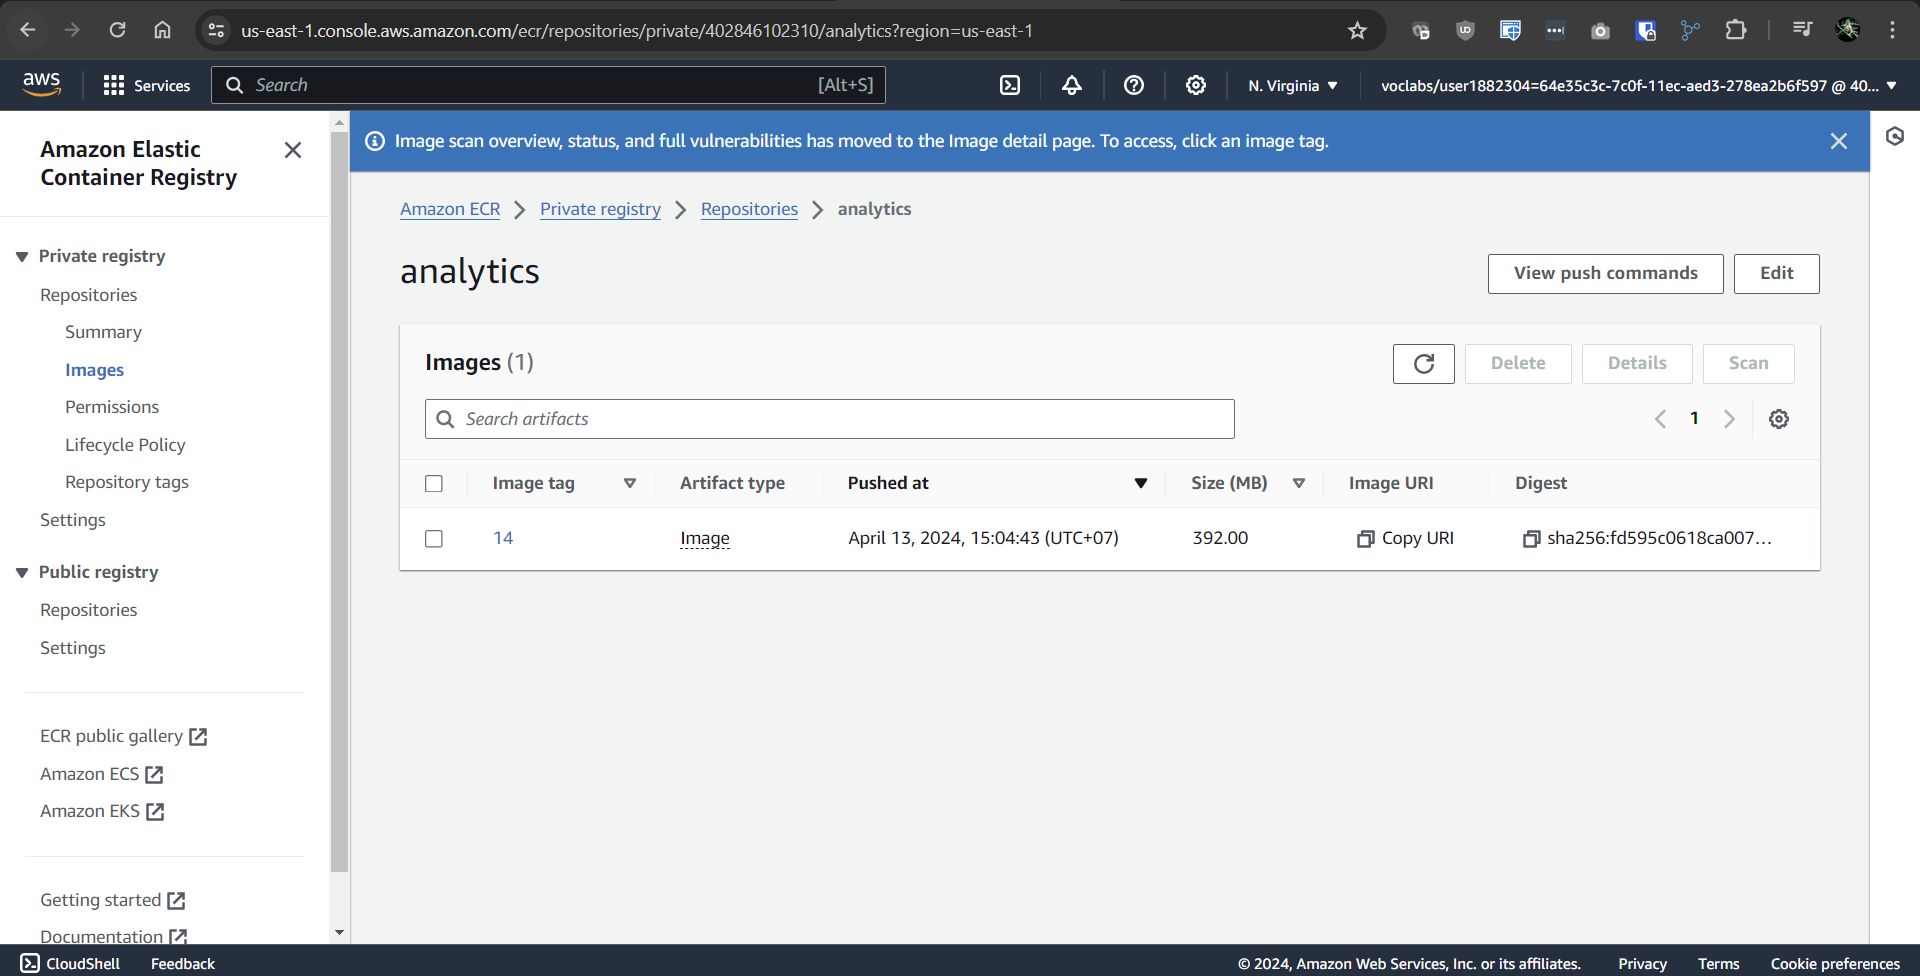
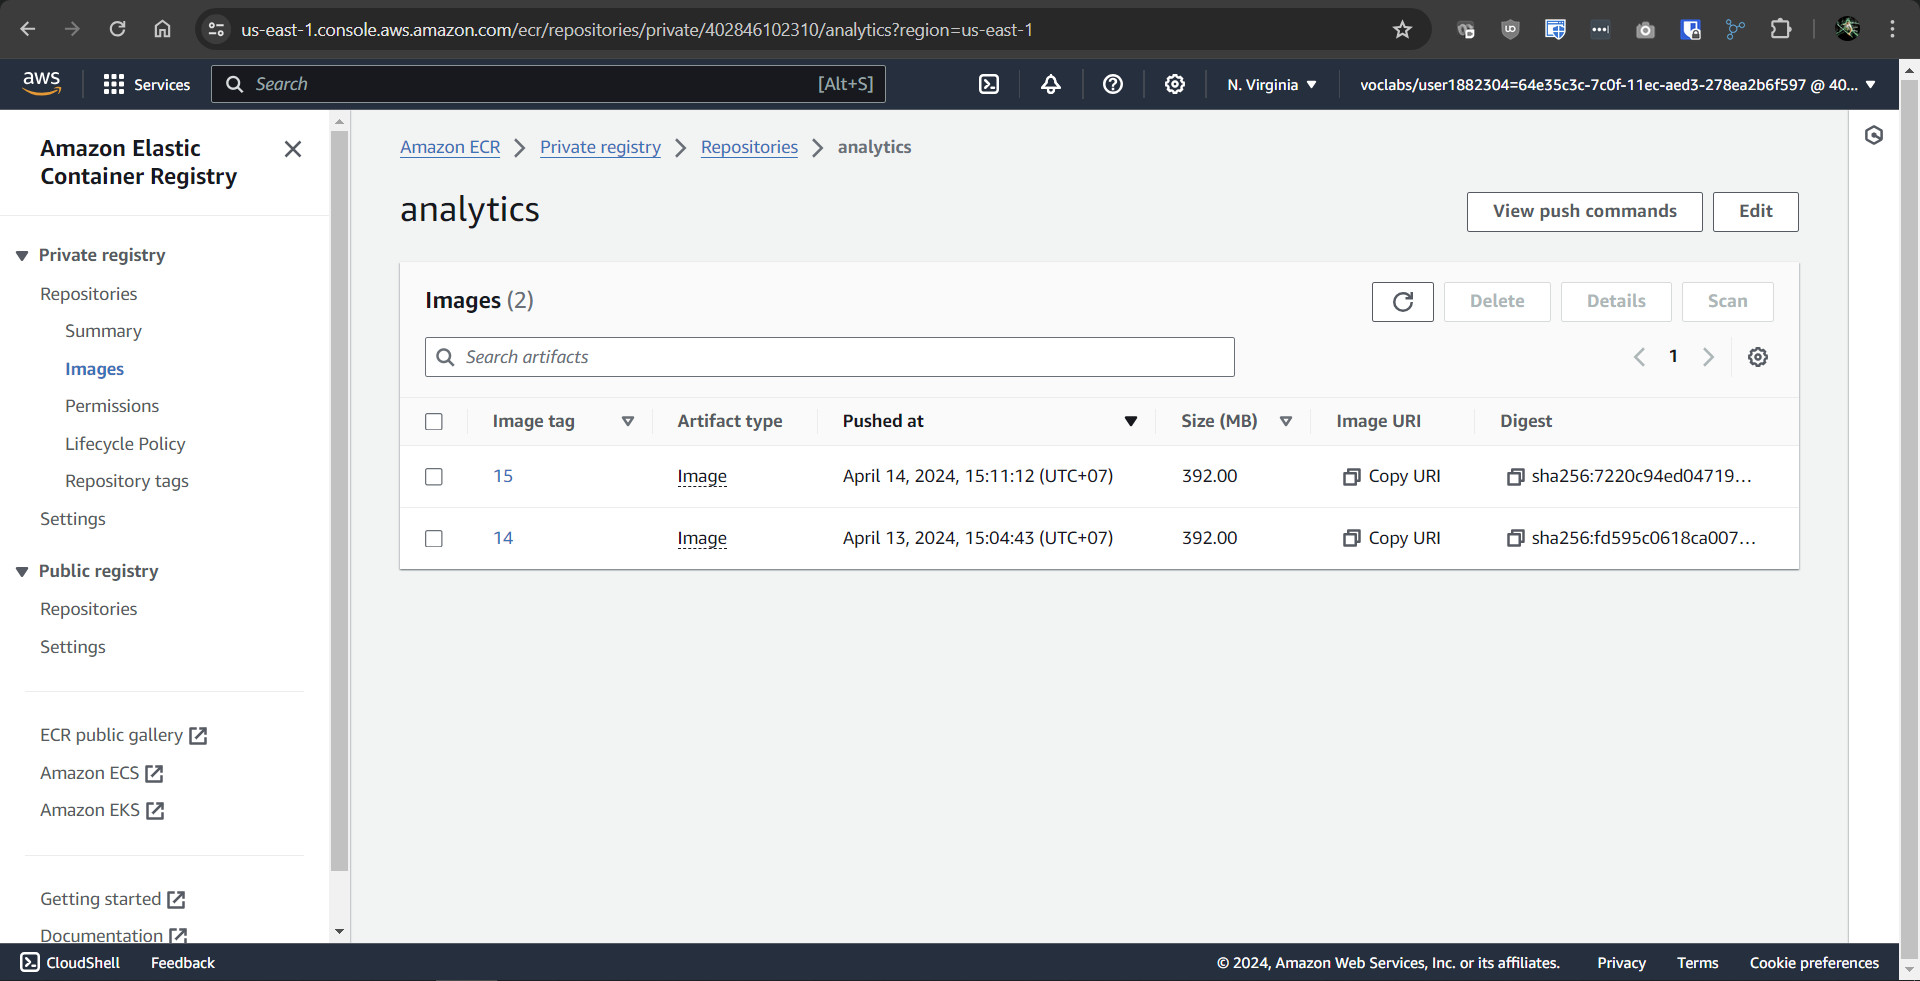
Update code

diff --git a/analytics/README.md b/analytics/README.md
@@ -1,0 +1,99 @@
+## Deployment guide
+
+### Preconditions
+1. Install eksctl, aws cli and kubectl.
+2. Push the code to Github repo.
+
+### Build CI process
+1. Create Dockerfile
+- The application is Python based. So, please use base image with Python installed. In this case I am using `python:3.9`
+- Specific the working directory. eg: /app
+- Copy file requirements.txt from source code to working directory
+- Install python dependecies
+- Copy all python source code to the working directory
+- Run application with `python` command.
+
+2. Create buildspec.yaml file
+- Get AWS password and login docker to use ECR as image repository.
+`aws ecr get-login-password | docker login --username AWS --password-stdin $API_REPOSITORY_URI`
+- Run docker build to build source code to a image.
+`docker build -t $API_REPOSITORY_URI:latest -f Dockerfile .`
+`docker tag $API_REPOSITORY_URI:latest $API_REPOSITORY_URI:$IMAGE_TAG`
+- Push built docker image to ECR.
+`docker push $API_REPOSITORY_URI:$IMAGE_TAG`
+
+3. Create ECR repository
+aws ecr create-repository  --repository-name analytics
+
+4. Create Codebuild project
+- Source: Select Github and choose the repo which contain the analytics application
+- Buildspec enter `analytics/buildspec.yaml`
+- You can enable auto build when has new code changes on Github repository. Or you can click on button `Start build` to run manually.
+- After building success, you can see the image on ECR repository
+
+
+### Deployment steps
+1. Create EKS cluster
+`eksctl create cluster --name {{CLUSTER_NAME}} --region us-east-1 --nodegroup-name {{NODE_GROUP_NAME}} --node-type t3.small --nodes 1 --nodes-min 1 --nodes-max 2`
+
+Connect EKS with local kubectl `aws eks update-kubeconfig --region us-east-1 --name {{CLUSTER_NAME}}`
+
+After done, delete cluster by below command
+`eksctl delete cluster --name {{CLUSTER_NAME}} --region us-east-1`
+
+2. Add cloudwatch to the EKS cluster
+- Add new policy `CloudWatchAgentServerPolicy` to EKS Node group role
+`aws iam attach-role-policy --role-name {{EKS_NODE_GROUP_ROLE_NAME}} --policy-arn arn:aws:iam::aws:policy/CloudWatchAgentServerPolicy`
+
+- Add addon cloudwatch to EKS
+`aws eks create-addon --cluster-name {{CLUSTER_NAME}} --addon-name amazon-cloudwatch-observability`
+
+3. Deploy database
+Go to the db folder inside repository. Run below command to deploy postgres database
+`kubectl apply -f pvc.yaml`
+`kubectl apply -f pv.yaml`
+Review and update the database info inside file `postgresql-deployment.yaml` if needed: POSTGRES_DB, POSTGRES_USER, POSTGRES_PASSWORD
+`kubectl apply -f postgresql-deployment.yaml`
+`kubectl apply -f postgresql-service.yaml`
+
+Connect to database and run below script to create test data
+`1_create_tables.sql`
+`2_seed_users.sql`
+`3_seed_tokens.sql`
+
+3. Create secret for database
+Go to the folder deployment
+Update the password value to match with POSTGRES_PASSWORD inside file `dbsecret.yaml`
+Run command to create secret: `kubectl apply -f dbsecret.yaml`
+
+4. Deploy coworking application
+Update the value for below variables: DB_HOST, DB_PORT, DB_USERNAME, DB_PASSWORD, DB_NAME inside file `coworking.yaml`.
+Anytime you have new version of code, please change the version in this section `image: 402846102310.dkr.ecr.us-east-1.amazonaws.com/analytics:15`
+
+Run below command to deploy application
+`kubectl apply -f coworking.yaml`
+
+### Verify
+Get all services that deployed to cluster
+`kubectl get svc`
+
+Get all pods
+`kubectl get pods`
+
+You also able to check application logs from CloudWatch
+
+
+## Stand-Out Suggestions
+1. Specify reasonable Memory and CPU allocation in the Kubernetes deployment configuration
+The application is very small. So, I think we can start with 2 CPU and 2 GB RAM for development environment.
+Based on the workload on PROD environment, we can consider larger CPU and RAM.
+
+2. In your README, specify what AWS instance type would be best used for the application? Why?
+For development we can use t3a.small. t3a instance is using ADM chip and it is cheaper than t3 with the same CPU and RAM
+For PROD environment, we can use larger t3a instance.
+
+3. In your README, provide your thoughts on how we can save on costs?
+For saving cost, we should consider below items:
+- Select appropriate instance type based on the actual workload.
+- Implement autoscaling for the EKS cluster. If the current node are using more than 70% of CPU, system will add more node.
+- For CloudWatch, setup log retention to 15 days. It is enough for investigating issues.
